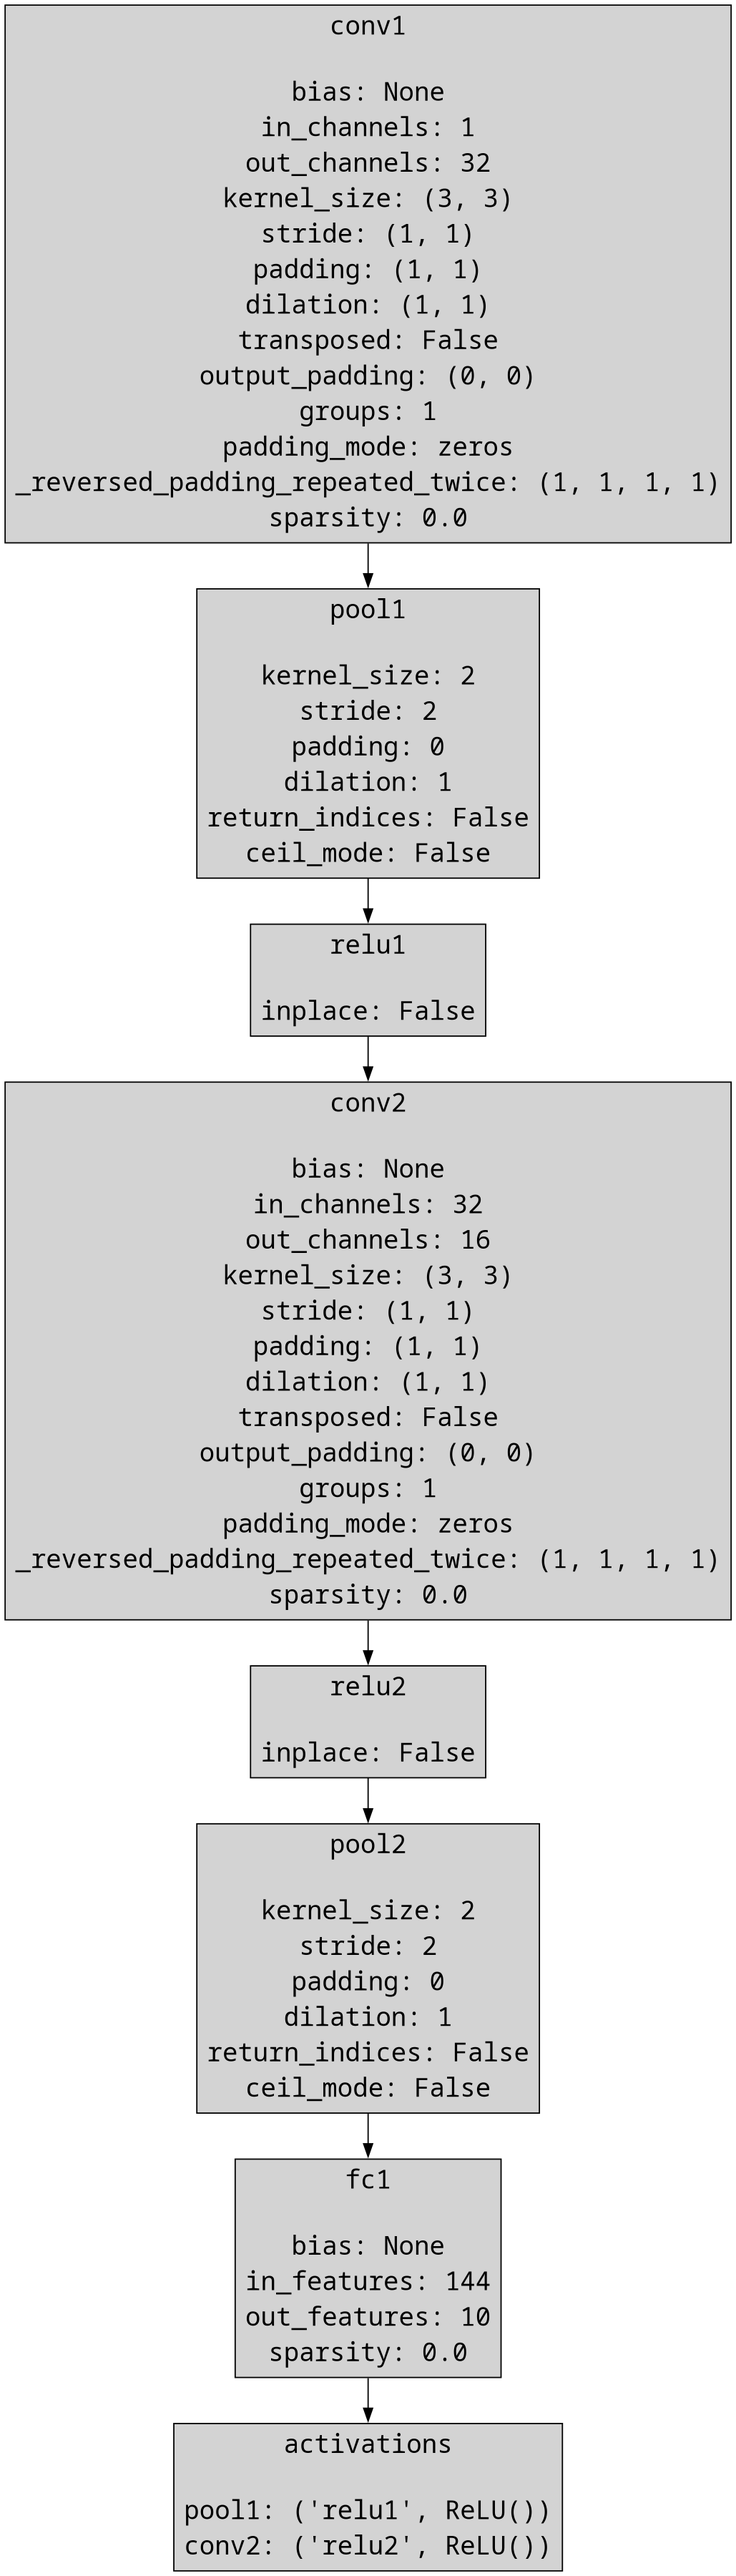
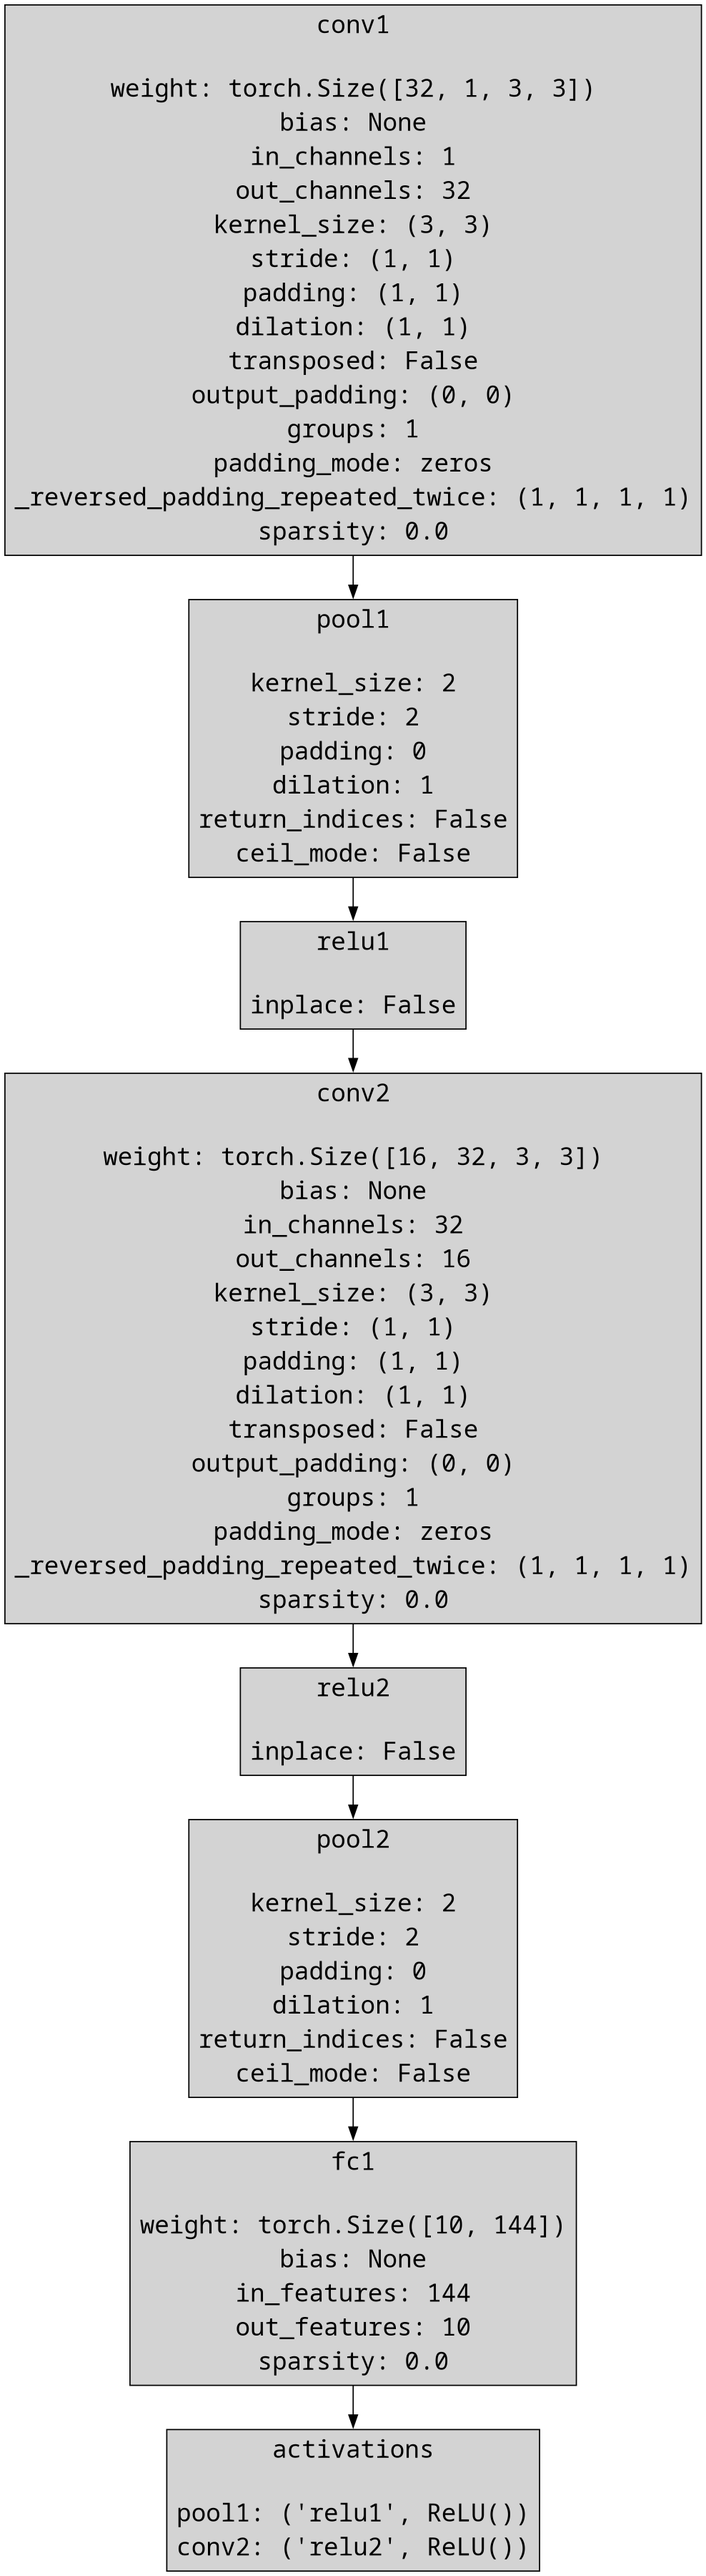
idk

diff --git a/visualizer/graph.py b/visualizer/graph.py
@@ -10,6 +10,7 @@ class LayerType(Enum):
     CONV1D=1
     CONV2D=2
     LINEAR=3
+    
     UNKNOWN=0
 
 class OperationType(Enum):
@@ -238,7 +239,7 @@ class Conv2dLayer(Layer):
                  stride=[1, 1], padding=[1, 1], dilation=[1, 1], bias=None, sparsity=0.0, label="Conv2d"):
         super().__init__(name, LayerType.CONV2D, label + ": " + name, False)
         self.in_channels = in_channels
-        self.out_channels = 1 # out_channels
+        self.out_channels = out_channels
         self.kernel_size = kernel_size 
         self.input_height = input_height
         self.input_width = input_width
@@ -306,6 +307,43 @@ class Conv2dLayer(Layer):
 
     def _calc_out_width(self):
         return (self.input_width + 2 * self.padding[1] - self.dilation[1] * (self.kernel_size[1] - 1) - 1) // self.stride[1] + 1
+
+    class LinearLayer(Layer):
+        def __init__(self, name, in_features, out_features, label="Linear"):
+            super().__init__(name, LayerType.LINEAR,  label+": "+name, False)
+            self.in_features=in_features
+            self.out_features=out_features
+
+            self._build_operations()
+
+        def get_torch(self):
+            return nn.Linear(   
+                    in_features=int(self.in_features),
+                    out_features=int(self.out_features)
+                )
+
+        def _build_operations(self):
+            # blue
+            self.add_node(ConstOP("Weight" + self.name, [self.out_features, self.in_features], "Weight"))
+            self.add_node(InputOP("Input" + self.name, [self.in_features]))
+            self.add_input_name(self.nodes[-1].get_name())
+
+            #green
+            self.add_node(OutputOP("Output" + self.name, [self.out_features]))
+            self.add_output_name(self.nodes[-1].get_name())
+
+            #macs
+            for i in range(self.out_features):
+                
+                mac_node_name = f'Mac{self.name}_{i}'
+                input_start = 0
+                weight_start = 0 
+
+                self.add_node(MacOP(mac_node_name, [input_start, input_start+self.in_features],
+                                [i], "MAC" + str(i)))
+                self.add_edge('Input' + self.name, mac_node_name)
+                self.add_edge('Weight' + self.name, mac_node_name)
+                self.add_edge(mac_node_name, 'Output' + self.name)
 
 class LinearLayer(Layer):
     def __init__(self, name, in_features, out_features, label="Linear"):
@@ -453,7 +491,7 @@ class Graph():
             kernel_size=list(self.pkl_dump[name]['kernel_size'])
             stride=list(self.pkl_dump[name]['stride'])
             padding=list(self.pkl_dump[name]['padding'])
-            dilation = [1] # change if added
+            dilation=[1] # change if added
 
             layer = Conv1dLayer(name, in_channels, out_channels, kernel_size,
                                 input_len, stride, padding, dilation) # may add sparsity
@@ -464,7 +502,7 @@ class Graph():
             kernel_size=list(self.pkl_dump[name]['kernel_size'])
             stride=list(self.pkl_dump[name]['stride'])
             padding=list(self.pkl_dump[name]['padding'])
-            dilation = [1, 1] # change if added
+            dilation=[1, 1] # change if added
 
             layer = Conv2dLayer(name, in_channels, out_channels, kernel_size,
                                 input_len, input_len, stride, padding, dilation) # may add sparsity
@@ -476,7 +514,11 @@ class Graph():
             layer = LinearLayer(name, in_features, out_features)
             
         else:
-            layer = Layer(name, LayerType.UNKNOWN, name)
+            label = name + '\n'
+            for k in self.pkl_dump[name].keys():
+                if not k.startswith('_'):
+                    label += str(k) + ": " + str(self.pkl_dump[name][k]) + "\n"
+            layer = Layer(name, LayerType.UNKNOWN, label)
 
         return layer
 

diff --git a/visualizer/visualizer.py b/visualizer/visualizer.py
@@ -71,6 +71,9 @@ class Visualizer():
                     for key2 in self.pkl_dump[name][key]:
                         if key2 not in self.excluded:
                             self.graph_dict[name] += str(key2) + ": " + str(self.pkl_dump[name][key][key2]) + "\n"
+                        else:
+                            self.graph_dict[name] += str(key2) + ": " + str(self.pkl_dump[name][key][key2].shape) + "\n"
+
                 else:
                     if key not in self.excluded:
                         self.graph_dict[name] += str(key) + ": " + str(self.pkl_dump[name][key]) + "\n"
